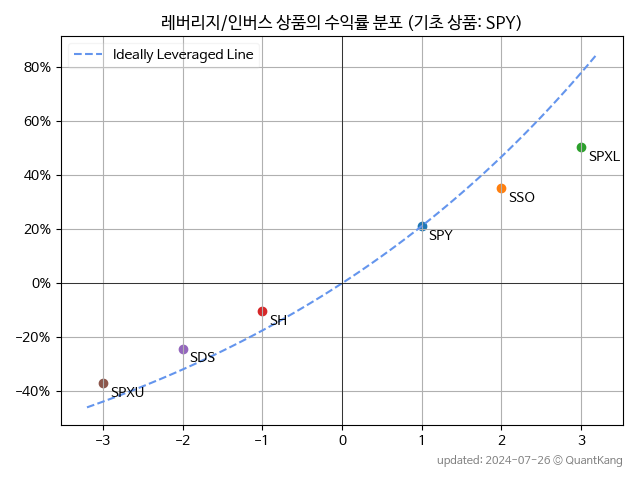
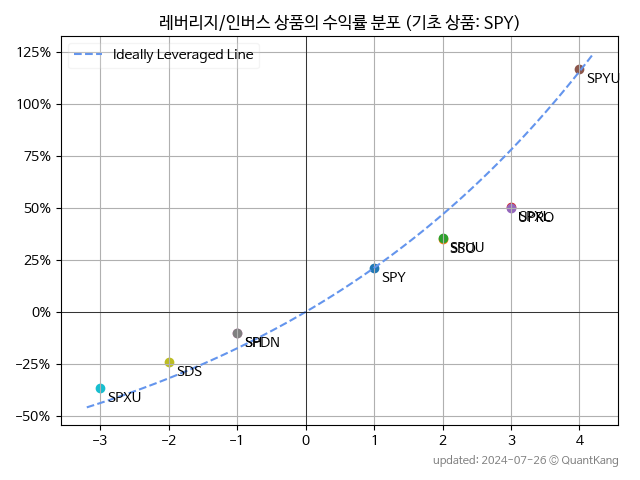
update

diff --git a/_posts/lev/2024-07-26-spdn.md b/_posts/lev/2024-07-26-spdn.md
@@ -1,0 +1,75 @@
+---
+layout: single
+title: SPDN 수익률과 비용 (SPY -1x)
+excerpt: SPDN의 1년 수익률은 -10.4%, 추정 비용은 -8.6%입니다.
+header:
+  overlay_color: "#333"
+  show_overlay_excerpt: false
+toc: true
+categories:
+- 인버스
+keywords: SPY, SPDN, SPDN SPY 비교
+---
+
+## 비교 상품 소개
+
+
+SPY 상품의 일일 수익률을 -1배로 추종하는 SPDN 상품의 최근 1년 성과를 살펴봅니다.
+
+
+
+
+
+{% include commons/vs-notice.md %}
+
+{% include commons/lev-notice.md %}
+
+| **종목** | **1년** | **편차** | **샤프** | **MDD** | **AvDD** |
+| :------------ | ------: | -----------: | -------: | ------: | -------: |
+| SPDN | <span style="color: cornflowerblue">-10.4<small>%</small></span> | 11.5<small>%</small> | -0.90 | -23.6<small>%</small> | -11.9<small>%</small> |
+
+<!-- more -->
+
+
+![SPDN](/lev/images/spdn.png){: .align-center}
+
+
+## 주요 가격 변동 지표<small>[^fn_price_metric]</small>
+
+
+| **종목** | **1년** | **편차** | **샤프** | **MDD** | **AvDD** |
+| :------------ | ------: | -----------: | -------: | ------: | -------: |
+| SPY | <span style="color: tomato">21.1<small>%</small></span> | 11.5<small>%</small> | 1.84 | -10.0<small>%</small> | -1.9<small>%</small> |
+| Ideal<small>[^fn_lev_ideal]</small> | <span style="color: cornflowerblue">-17.5<small>%</small></span> | 11.5<small>%</small> | -1.52 | -28.0<small>%</small> | -13.7<small>%</small> |
+| I. daily<small>[^fn_lev_ideal_daily]</small> | <span style="color: cornflowerblue">-18.6<small>%</small></span> | 11.5<small>%</small> | -1.61 | -28.7<small>%</small> | -14.0<small>%</small> |
+| SPDN | <span style="color: cornflowerblue">-10.4<small>%</small></span> | 11.5<small>%</small> | -0.90 | -23.6<small>%</small> | -11.9<small>%</small> |
+
+
+## 추정 비용<small>[^fn_lev_expense]</small><a id="expense"></a>
+
+SPDN 상품을 SPY 상품의 -1배 레버리지라 가정하고 분석한 결과입니다.
+
+![SPDN](/lev/images/spdn_ideal.png){: .align-center}
+
+| **종목** | **변동성비용**[^fn_lev_vd_expense] | **금융비용**[^fn_lev_fn_expense] | **전체비용**[^fn_lev_tt_expense] |
+| :------------ | ------: | -----------: | -------: |
+| SPDN | 1.3<small>%</small> | -10.1<small>%</small> | -8.6<small>%</small> |
+
+{% include /commons/ads/adsense.html %}
+
+
+
+## 관련 레버리지/인버스 상품의 수익률 분포
+
+SPY 상품을 기초로 하는 타 레버리지/인버스 상품과 비교합니다.
+
+![SPY](/lev/images/spy_ideal.png){: .align-center}
+
+{% include lev/spy_md.inc %}
+
+
+## 관련 정보
+
+- [레버리지/인버스 목록](/lev/){: .btn .btn--info}
+
+{% include commons/footnotes.md %}

diff --git a/_posts/lev/2024-07-26-spyu.md b/_posts/lev/2024-07-26-spyu.md
@@ -1,0 +1,75 @@
+---
+layout: single
+title: SPYU 수익률과 비용 (SPY 4x)
+excerpt: SPYU의 1년 수익률은 116.6%, 추정 비용은 22.1%입니다.
+header:
+  overlay_color: "#333"
+  show_overlay_excerpt: false
+toc: true
+categories:
+- 레버리지
+keywords: SPY, SPYU, SPYU SPY 비교
+---
+
+## 비교 상품 소개
+
+
+SPY 상품의 일일 수익률을 4배로 추종하는 SPYU 상품의 최근 1년 성과를 살펴봅니다.
+
+
+
+
+
+{% include commons/vs-notice.md %}
+
+{% include commons/lev-notice.md %}
+
+| **종목** | **1년** | **편차** | **샤프** | **MDD** | **AvDD** |
+| :------------ | ------: | -----------: | -------: | ------: | -------: |
+| SPYU | <span style="color: tomato">116.6<small>%</small></span> | 43.8<small>%</small> | 2.66 | -21.8<small>%</small> | -3.9<small>%</small> |
+
+<!-- more -->
+
+
+![SPYU](/lev/images/spyu.png){: .align-center}
+
+
+## 주요 가격 변동 지표<small>[^fn_price_metric]</small>
+
+
+| **종목** | **1년** | **편차** | **샤프** | **MDD** | **AvDD** |
+| :------------ | ------: | -----------: | -------: | ------: | -------: |
+| SPY | <span style="color: tomato">33.8<small>%</small></span> | 11.0<small>%</small> | 3.07 | -5.4<small>%</small> | -0.8<small>%</small> |
+| Ideal<small>[^fn_lev_ideal]</small> | <span style="color: tomato">220.0<small>%</small></span> | 43.9<small>%</small> | 5.01 | -19.8<small>%</small> | -3.2<small>%</small> |
+| I. daily<small>[^fn_lev_ideal_daily]</small> | <span style="color: tomato">197.2<small>%</small></span> | 44.0<small>%</small> | 4.49 | -20.2<small>%</small> | -3.3<small>%</small> |
+| SPYU | <span style="color: tomato">116.6<small>%</small></span> | 43.8<small>%</small> | 2.66 | -21.8<small>%</small> | -3.9<small>%</small> |
+
+
+## 추정 비용<small>[^fn_lev_expense]</small><a id="expense"></a>
+
+SPYU 상품을 SPY 상품의 4배 레버리지라 가정하고 분석한 결과입니다.
+
+![SPYU](/lev/images/spyu_ideal.png){: .align-center}
+
+| **종목** | **변동성비용**[^fn_lev_vd_expense] | **금융비용**[^fn_lev_fn_expense] | **전체비용**[^fn_lev_tt_expense] |
+| :------------ | ------: | -----------: | -------: |
+| SPYU | 4.6<small>%</small> | 18.4<small>%</small> | 22.1<small>%</small> |
+
+{% include /commons/ads/adsense.html %}
+
+
+
+## 관련 레버리지/인버스 상품의 수익률 분포
+
+SPY 상품을 기초로 하는 타 레버리지/인버스 상품과 비교합니다.
+
+![SPY](/lev/images/spy_ideal.png){: .align-center}
+
+{% include lev/spy_md.inc %}
+
+
+## 관련 정보
+
+- [레버리지/인버스 목록](/lev/){: .btn .btn--info}
+
+{% include commons/footnotes.md %}

diff --git a/_posts/lev/2024-07-26-upro.md b/_posts/lev/2024-07-26-upro.md
@@ -1,0 +1,75 @@
+---
+layout: single
+title: UPRO 수익률과 비용 (SPY 3x)
+excerpt: UPRO의 1년 수익률은 50.0%, 추정 비용은 15.7%입니다.
+header:
+  overlay_color: "#333"
+  show_overlay_excerpt: false
+toc: true
+categories:
+- 레버리지
+keywords: SPY, UPRO, UPRO SPY 비교
+---
+
+## 비교 상품 소개
+
+
+SPY 상품의 일일 수익률을 3배로 추종하는 UPRO 상품의 최근 1년 성과를 살펴봅니다.
+
+
+
+
+
+{% include commons/vs-notice.md %}
+
+{% include commons/lev-notice.md %}
+
+| **종목** | **1년** | **편차** | **샤프** | **MDD** | **AvDD** |
+| :------------ | ------: | -----------: | -------: | ------: | -------: |
+| UPRO | <span style="color: tomato">50.0<small>%</small></span> | 34.5<small>%</small> | 1.45 | -30.2<small>%</small> | -6.6<small>%</small> |
+
+<!-- more -->
+
+
+![UPRO](/lev/images/upro.png){: .align-center}
+
+
+## 주요 가격 변동 지표<small>[^fn_price_metric]</small>
+
+
+| **종목** | **1년** | **편차** | **샤프** | **MDD** | **AvDD** |
+| :------------ | ------: | -----------: | -------: | ------: | -------: |
+| SPY | <span style="color: tomato">21.1<small>%</small></span> | 11.5<small>%</small> | 1.84 | -10.0<small>%</small> | -1.9<small>%</small> |
+| Ideal<small>[^fn_lev_ideal]</small> | <span style="color: tomato">77.8<small>%</small></span> | 34.6<small>%</small> | 2.25 | -27.0<small>%</small> | -5.3<small>%</small> |
+| I. daily<small>[^fn_lev_ideal_daily]</small> | <span style="color: tomato">70.8<small>%</small></span> | 34.6<small>%</small> | 2.05 | -27.9<small>%</small> | -5.6<small>%</small> |
+| UPRO | <span style="color: tomato">50.0<small>%</small></span> | 34.5<small>%</small> | 1.45 | -30.2<small>%</small> | -6.6<small>%</small> |
+
+
+## 추정 비용<small>[^fn_lev_expense]</small><a id="expense"></a>
+
+UPRO 상품을 SPY 상품의 3배 레버리지라 가정하고 분석한 결과입니다.
+
+![UPRO](/lev/images/upro_ideal.png){: .align-center}
+
+| **종목** | **변동성비용**[^fn_lev_vd_expense] | **금융비용**[^fn_lev_fn_expense] | **전체비용**[^fn_lev_tt_expense] |
+| :------------ | ------: | -----------: | -------: |
+| UPRO | 4.0<small>%</small> | 12.2<small>%</small> | 15.7<small>%</small> |
+
+{% include /commons/ads/adsense.html %}
+
+
+
+## 관련 레버리지/인버스 상품의 수익률 분포
+
+SPY 상품을 기초로 하는 타 레버리지/인버스 상품과 비교합니다.
+
+![SPY](/lev/images/spy_ideal.png){: .align-center}
+
+{% include lev/spy_md.inc %}
+
+
+## 관련 정보
+
+- [레버리지/인버스 목록](/lev/){: .btn .btn--info}
+
+{% include commons/footnotes.md %}

diff --git a/_posts/lev/2024-07-26-spuu.md b/_posts/lev/2024-07-26-spuu.md
@@ -1,0 +1,75 @@
+---
+layout: single
+title: SPUU 수익률과 비용 (SPY 2x)
+excerpt: SPUU의 1년 수익률은 35.2%, 추정 비용은 7.9%입니다.
+header:
+  overlay_color: "#333"
+  show_overlay_excerpt: false
+toc: true
+categories:
+- 레버리지
+keywords: SPY, SPUU, SPUU SPY 비교
+---
+
+## 비교 상품 소개
+
+
+SPY 상품의 일일 수익률을 2배로 추종하는 SPUU 상품의 최근 1년 성과를 살펴봅니다.
+
+
+
+
+
+{% include commons/vs-notice.md %}
+
+{% include commons/lev-notice.md %}
+
+| **종목** | **1년** | **편차** | **샤프** | **MDD** | **AvDD** |
+| :------------ | ------: | -----------: | -------: | ------: | -------: |
+| SPUU | <span style="color: tomato">35.2<small>%</small></span> | 22.8<small>%</small> | 1.55 | -20.6<small>%</small> | -4.2<small>%</small> |
+
+<!-- more -->
+
+
+![SPUU](/lev/images/spuu.png){: .align-center}
+
+
+## 주요 가격 변동 지표<small>[^fn_price_metric]</small>
+
+
+| **종목** | **1년** | **편차** | **샤프** | **MDD** | **AvDD** |
+| :------------ | ------: | -----------: | -------: | ------: | -------: |
+| SPY | <span style="color: tomato">21.1<small>%</small></span> | 11.5<small>%</small> | 1.84 | -10.0<small>%</small> | -1.9<small>%</small> |
+| Ideal<small>[^fn_lev_ideal]</small> | <span style="color: tomato">46.8<small>%</small></span> | 23.0<small>%</small> | 2.03 | -19.0<small>%</small> | -3.6<small>%</small> |
+| I. daily<small>[^fn_lev_ideal_daily]</small> | <span style="color: tomato">44.8<small>%</small></span> | 23.0<small>%</small> | 1.95 | -19.3<small>%</small> | -3.7<small>%</small> |
+| SPUU | <span style="color: tomato">35.2<small>%</small></span> | 22.8<small>%</small> | 1.55 | -20.6<small>%</small> | -4.2<small>%</small> |
+
+
+## 추정 비용<small>[^fn_lev_expense]</small><a id="expense"></a>
+
+SPUU 상품을 SPY 상품의 2배 레버리지라 가정하고 분석한 결과입니다.
+
+![SPUU](/lev/images/spuu_ideal.png){: .align-center}
+
+| **종목** | **변동성비용**[^fn_lev_vd_expense] | **금융비용**[^fn_lev_fn_expense] | **전체비용**[^fn_lev_tt_expense] |
+| :------------ | ------: | -----------: | -------: |
+| SPUU | 1.3<small>%</small> | 6.6<small>%</small> | 7.9<small>%</small> |
+
+{% include /commons/ads/adsense.html %}
+
+
+
+## 관련 레버리지/인버스 상품의 수익률 분포
+
+SPY 상품을 기초로 하는 타 레버리지/인버스 상품과 비교합니다.
+
+![SPY](/lev/images/spy_ideal.png){: .align-center}
+
+{% include lev/spy_md.inc %}
+
+
+## 관련 정보
+
+- [레버리지/인버스 목록](/lev/){: .btn .btn--info}
+
+{% include commons/footnotes.md %}
